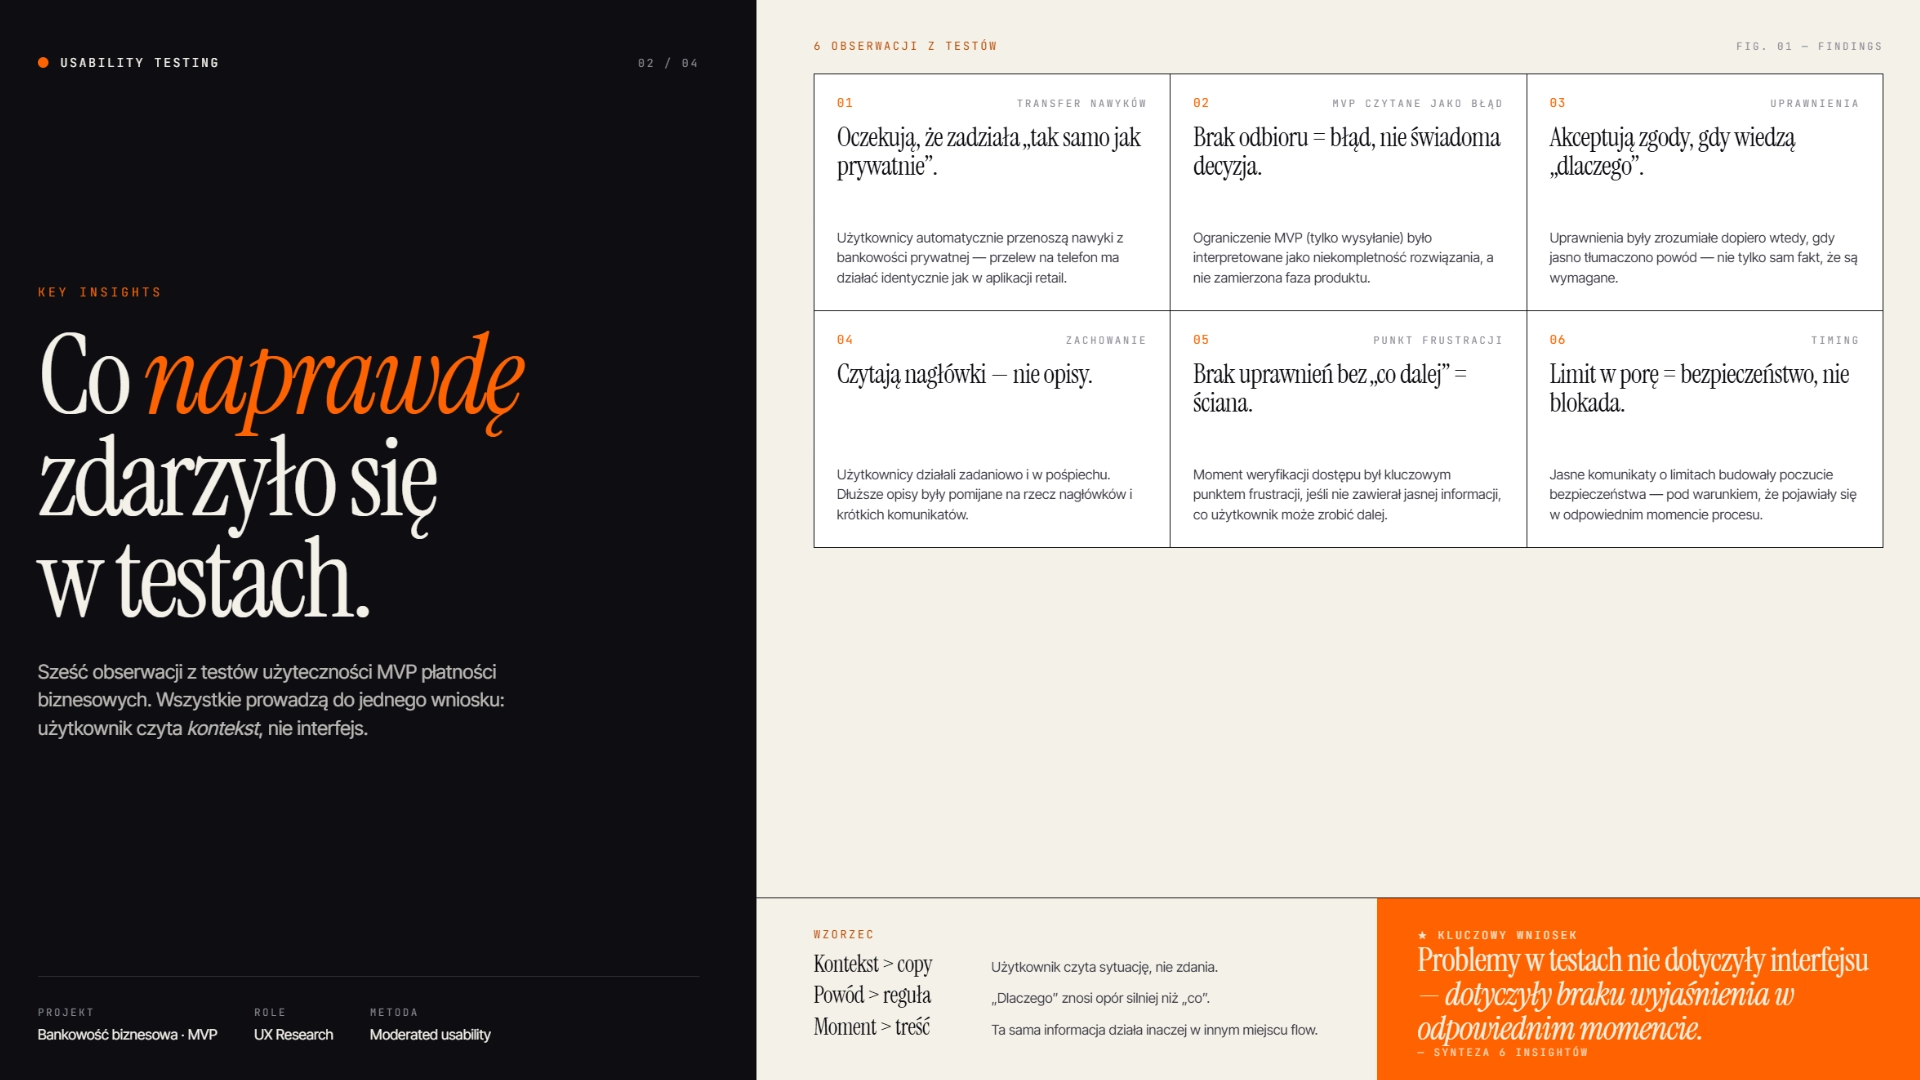
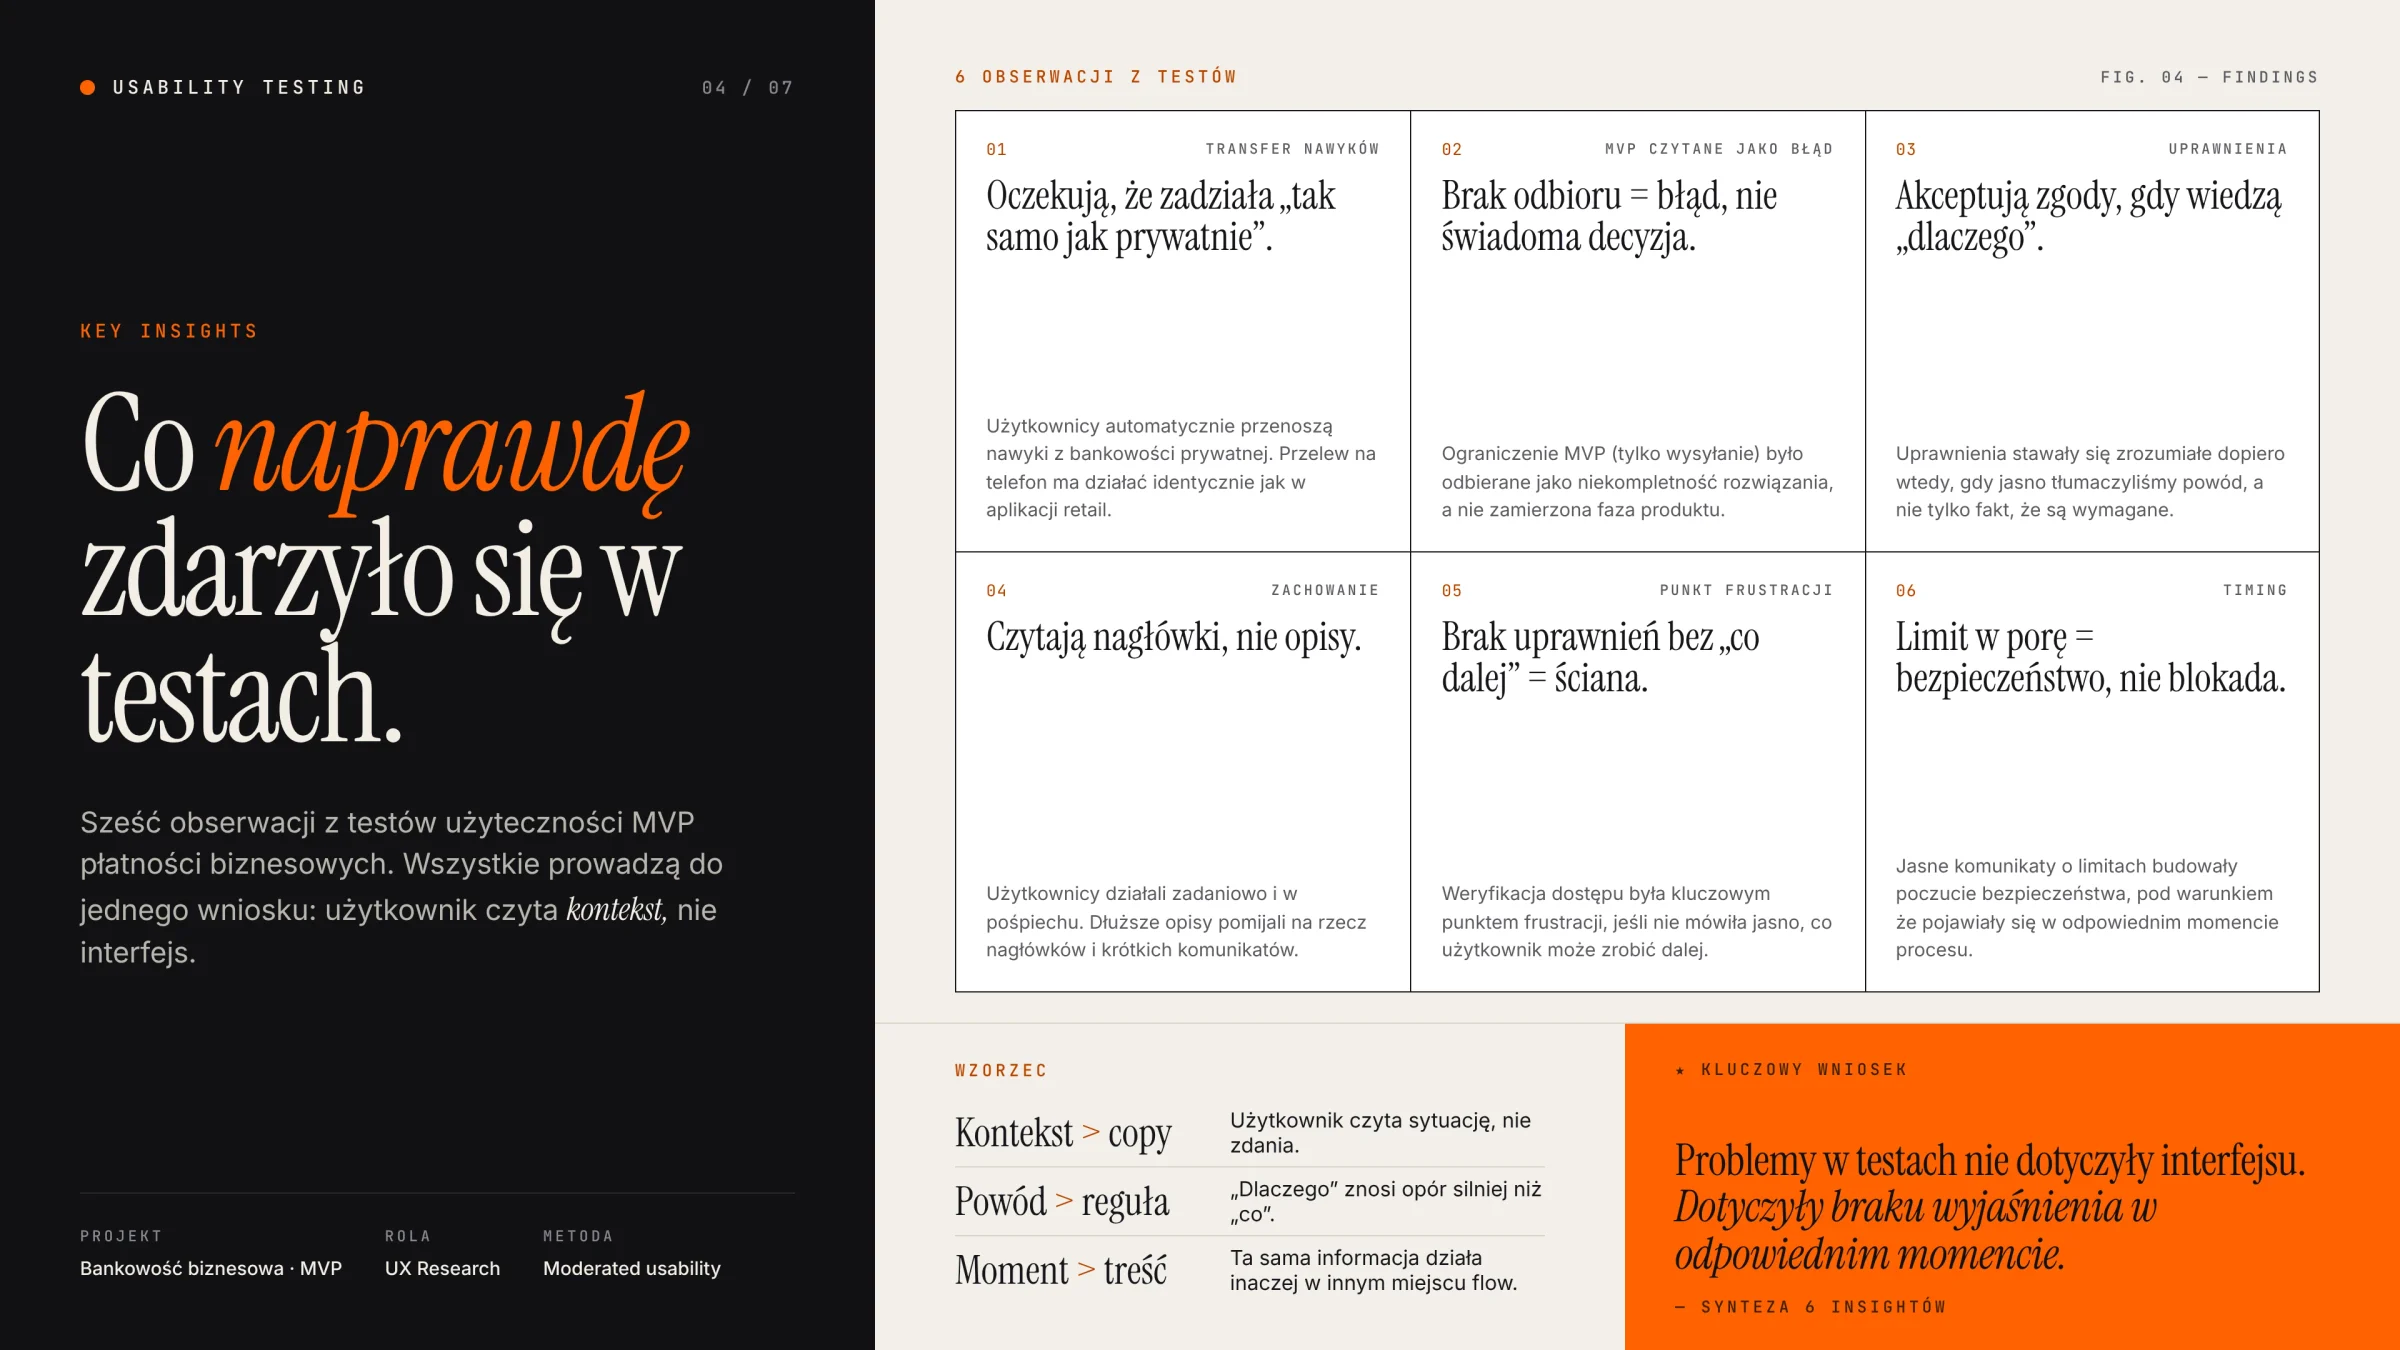
BLIK: ujednolicone grafiki procesu (16:9), nowe podpisy i tłumaczone alty
- 7 grafik w spójnym stylu, pełne kadry 16:9
- mapa ścieżki i analiza kontekstu na pełną szerokość
- UX writing przeniesiony do sekcji „UX writing i edukacja”
- usunięta grafika multi-channel (zastąpiona podziałem kanałów)

diff --git a/src/i18n/translations.ts b/src/i18n/translations.ts
@@ -218,17 +218,23 @@ export const translations: Record<Lang, Record<string, string>> = {
     'tabbox.result.3.value': '8 tyg.',
 
     // ── Podpisy grafik — BLIK ─────────────────────────────────
-    'blik.caption.0':  'User Journey Map — model mentalny Retail → Business',
-    'blik.caption.1':  'Analiza kontekstu — Competitive & Behavioral Research',
-    'blik.caption.2':  'User Flow — ścieżki aktywacji i autoryzacji BLIK dla Biznesu',
+    'blik.caption.0':  "Mapa ścieżki klienta — nawyk z retailu wchodzi do firmy",
+    'blik.caption.1':  "Analiza kontekstu — konkurencją nie są inne banki",
+    'blik.caption.2':  "User flow — uprawnienia sprawdzane przed wpisaniem danych",
     'blik.caption.3':  'Low-Fidelity wireframes — flow aktywacji BLIK',
-    'blik.caption.4':  'Usability Testing — kluczowe wnioski z testów użyteczności',
+    'blik.caption.4':  "Kluczowe wnioski — sześć obserwacji z testów użyteczności",
     'blik.caption.5':  'High-Fidelity wireframes — Przelew na telefon, Zmiana ustawień, Kod BLIK',
     'blik.caption.6':  'Eksploracja klarownego języka w komunikatach - ux writing',
-    'blik.caption.7':  'Schemat badań użyteczności',
-    'blik.caption.8':  'Budowa procesu - podział odpowiedzialności systemów',
-    'blik.caption.9':  'Mental Gap — niezrozumienie przez użytkownika',
-    'blik.caption.10': 'Multi-Channel — integracja kanałów komunikacji',
+    'blik.caption.7':  "Plan badania — 30 sesji moderowanych, web i mobile",
+    'blik.caption.8':  "Podział odpowiedzialności — desktop ustawia, mobile działa",
+    'blik.caption.9':  "Luka w modelu mentalnym — między nawykiem a regułami",
+    'blik.alt.UJM_blik': "Mapa ścieżki klienta biznesowego w pięciu etapach (potrzeba, odkrycie, uprawnienia, przelew, po transakcji) z krzywą emocji i rolą UX na każdym etapie",
+    'blik.alt.Context_research_blik': "Model mentalny użytkownika (szybki, bezpieczny, dwustronny), trzy napięcia behawioralne i wnioski dla strategii UX",
+    'blik.alt.User_flow_blik': "Schemat ścieżek aktywacji i autoryzacji BLIK dla Biznesu w aplikacji i na desktopie, z weryfikacją uprawnień przed wpisaniem danych przelewu",
+    'blik.alt.Key_insights_blik': "Sześć obserwacji z testów użyteczności MVP i wniosek: problemy dotyczyły braku wyjaśnienia w odpowiednim momencie, nie interfejsu",
+    'blik.alt.usability_testing_blik': "Plan badania użyteczności: 30 sesji moderowanych z klientami biznesowymi, kanały web i mobile, trzy scenariusze zadań, pytania badawcze i kluczowe wnioski",
+    'blik.alt.budowa_procesu_blik': "Podział funkcji między kanałami: na desktopie aktywacja i ustawienia, w aplikacji mobilnej pełna funkcjonalność przelewu na telefon, z punktami edukacyjnymi między kanałami",
+    'blik.alt.mental_gap_blik': "Zestawienie oczekiwań z bankowości prywatnej (łatwo i szybko) z rzeczywistością biznesową (uprawnienia, limity, role) i rola UX: wyjaśnić regułę w chwili, gdy użytkownik jej potrzebuje",
 
     // ── Podpisy grafik — ReID ─────────────────────────────────
     'reid.caption.0':  'Problems & Solutions — mapowanie wyzwań i rozwiązań projektowych',
@@ -900,17 +906,23 @@ export const translations: Record<Lang, Record<string, string>> = {
     'tabbox.result.3.value': '8 wks.',
 
     // ── Image captions — BLIK ─────────────────────────────────
-    'blik.caption.0':  'User Journey Map — Retail → Business mental model',
-    'blik.caption.1':  'Context analysis — Competitive & Behavioral Research',
-    'blik.caption.2':  'User Flow — BLIK for Business activation and authorisation paths',
+    'blik.caption.0':  "Customer journey map — a retail habit enters the company (in Polish)",
+    'blik.caption.1':  "Context analysis — the competition is not other banks (in Polish)",
+    'blik.caption.2':  "User flow — permissions checked before data entry (in Polish)",
     'blik.caption.3':  'Low-Fidelity wireframes — BLIK activation flow',
-    'blik.caption.4':  'Usability Testing — key insights from usability tests',
+    'blik.caption.4':  "Key insights — six observations from usability tests (in Polish)",
     'blik.caption.5':  'High-Fidelity wireframes — Phone transfer, Settings change, BLIK Code',
     'blik.caption.6':  'Exploring clear language in messages — UX writing',
-    'blik.caption.7':  'Usability testing scheme',
-    'blik.caption.8':  'Process structure — division of system responsibilities',
-    'blik.caption.9':  'Mental Gap — user misunderstanding',
-    'blik.caption.10': 'Multi-Channel — communication channel integration',
+    'blik.caption.7':  "Research plan — 30 moderated sessions, web and mobile (in Polish)",
+    'blik.caption.8':  "Division of responsibilities — desktop configures, mobile acts (in Polish)",
+    'blik.caption.9':  "Mental model gap — between habit and rules (in Polish)",
+    'blik.alt.UJM_blik': "Business client journey map in five stages (need, discovery, permissions, transfer, after the transaction) with an emotion curve and the role of UX at each stage",
+    'blik.alt.Context_research_blik': "User mental model (fast, secure, two-way), three behavioural tensions and conclusions for the UX strategy",
+    'blik.alt.User_flow_blik': "Activation and authorisation flows for BLIK for Business in the app and on desktop, with permission checks before entering transfer details",
+    'blik.alt.Key_insights_blik': "Six observations from MVP usability tests and the conclusion: the problems were about missing explanations at the right moment, not the interface",
+    'blik.alt.usability_testing_blik': "Usability research plan: 30 moderated sessions with business clients, web and mobile, three task scenarios, research questions and key findings",
+    'blik.alt.budowa_procesu_blik': "Division of features between channels: activation and settings on desktop, full phone-transfer functionality in the mobile app, with educational touchpoints between channels",
+    'blik.alt.mental_gap_blik': "Retail expectations (easy and fast) versus business reality (permissions, limits, roles) and the role of UX: explain the rule when the user needs it",
 
     // ── Image captions — ReID ─────────────────────────────────
     'reid.caption.0':  'Problems & Solutions — mapping design challenges and solutions',
